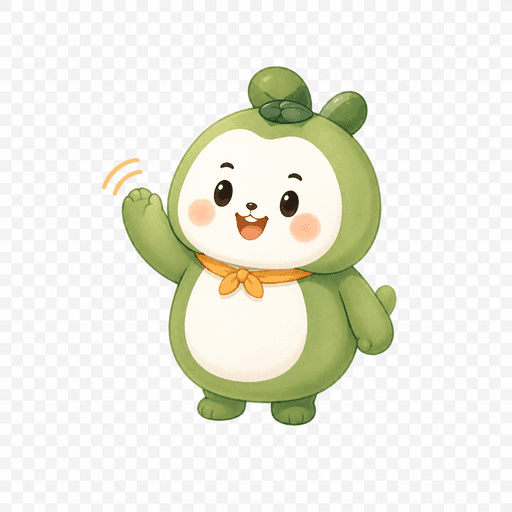
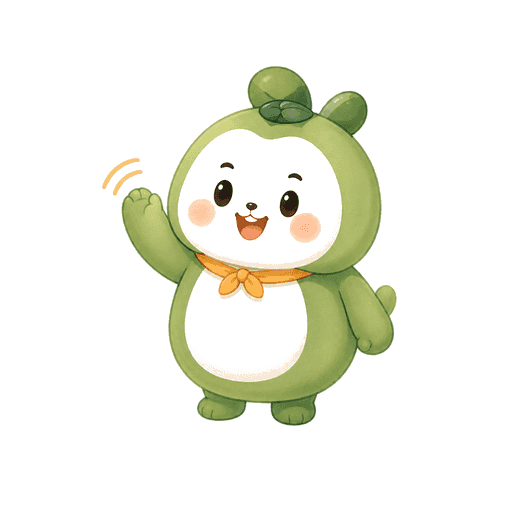
fix(brand): restore alpha on every transparent PNG, harden hero layout
The earlier compression pass ran sharp's PNG encoder with palette:true,
which silently dropped the alpha channel and baked the transparent area
into a near-white solid. Result on production: every transparent PNG
(family hero, miumiu mascots, leaf corner decor, timeline icons, logo)
rendered with a visible chequerboard / grey rectangle instead of seeing
through to whatever sat behind it. The hero in particular lost its
banner because the family illustration's bounding box covered the
watercolor harbour.

- scripts/restore-png-alpha.mjs: chroma-key pass that samples each
  PNG's corner colour, treats anything within an 18-unit Lab distance
  as background, and rewrites the file as RGBA with feathered edges.
  Restores all 20 affected PNGs in place.
- scripts/compress-brand-assets.mjs: drop palette:true; future runs use
  deflate-only PNG compression so transparency is never stripped again.
- src/components/home/Hero.tsx: rebuild with next/image fill so the
  watercolor banner reliably covers the entire section, add a soft
  cream-to-transparent gradient on the left for headline readability,
  and shift the family illustration to align with the right edge so it
  sits naturally over the city skyline rather than floating in the
  middle.

diff --git a/src/components/home/Hero.tsx b/src/components/home/Hero.tsx
@@ -2,17 +2,25 @@ import Image from "next/image";
 
 export function Hero() {
   return (
-    <section className="relative overflow-hidden bg-cream-50 border-b border-cream-200">
-      {/* Watercolor harbour banner — desktop & mobile srcset */}
-      <picture className="absolute inset-0 pointer-events-none select-none">
-        <source media="(max-width: 768px)" srcSet="/brand/hero/bg-mobile@2x.jpg" />
-        <img
-          src="/brand/hero/bg@2x.jpg"
-          alt=""
-          aria-hidden
-          className="w-full h-full object-cover opacity-90"
-        />
-      </picture>
+    <section className="relative overflow-hidden bg-cream-50 border-b border-cream-200 min-h-[440px] md:min-h-[560px]">
+      {/* Watercolor harbour banner — fills the full section */}
+      <Image
+        src="/brand/hero/bg@2x.jpg"
+        alt=""
+        aria-hidden
+        fill
+        priority
+        sizes="100vw"
+        className="object-cover object-bottom select-none pointer-events-none"
+      />
+      {/* Soft cream wash on the left so headline stays readable */}
+      <div
+        className="absolute inset-0 pointer-events-none"
+        style={{
+          background:
+            "linear-gradient(90deg, rgba(253,251,245,0.92) 0%, rgba(253,251,245,0.55) 35%, rgba(253,251,245,0) 60%)",
+        }}
+      />
       <span className="leaf-decor leaf-decor-tl pointer-events-none z-10" />
       <span className="leaf-decor leaf-decor-tr pointer-events-none z-10" />
 
@@ -28,14 +36,14 @@ export function Hero() {
           </p>
         </div>
 
-        <div className="relative h-64 md:h-[420px] flex items-end justify-center">
+        <div className="relative h-64 md:h-[420px] flex items-end justify-end pr-4 md:pr-12">
           <Image
             src="/brand/hero/family@2x.png"
             alt="開心嘅家庭一齊閱讀"
             width={520}
             height={520}
-            sizes="(max-width: 768px) 80vw, 480px"
-            className="relative z-10 max-h-full w-auto object-contain drop-shadow-sm"
+            sizes="(max-width: 768px) 70vw, 460px"
+            className="relative z-10 max-h-full w-auto object-contain drop-shadow-md"
             priority
           />
         </div>
